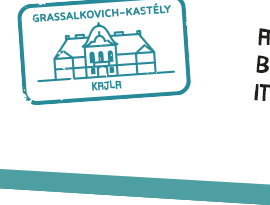
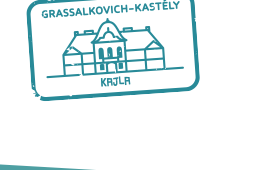
Auto-open castle details on selection + tighter stamp crops
- Clicking a castle in the list now automatically opens detail panel
- Re-cropped stamp images to remove teal bar and excess whitespace

diff --git a/index.html b/index.html
@@ -1673,6 +1673,11 @@ input[type="range"]::-webkit-slider-thumb {
         setTimeout(() => marker.openPopup(), 350);
       }
     }
+
+    // Kastélyoknál automatikusan nyissuk meg a részleteket
+    if (currentCategory === 'castles') {
+      window._showDetail(id);
+    }
   };
 
   window._loadMore = function() {
